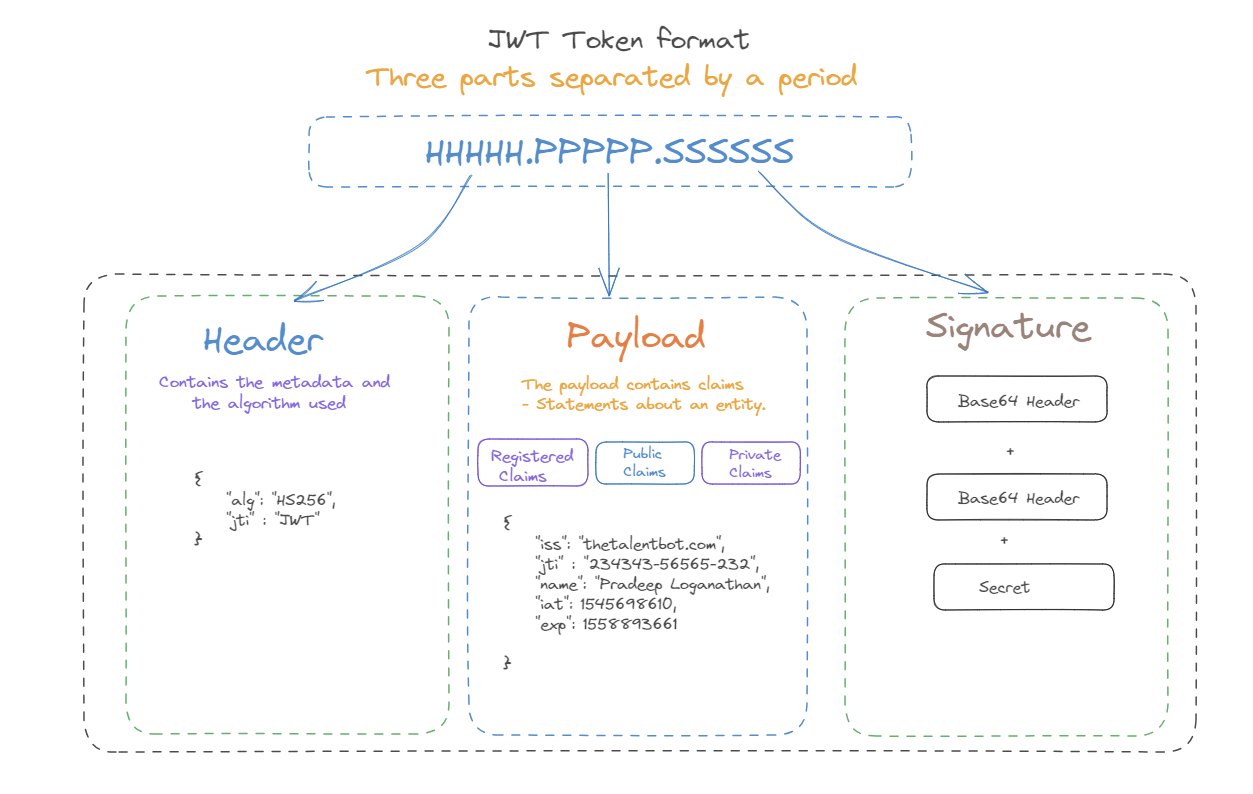
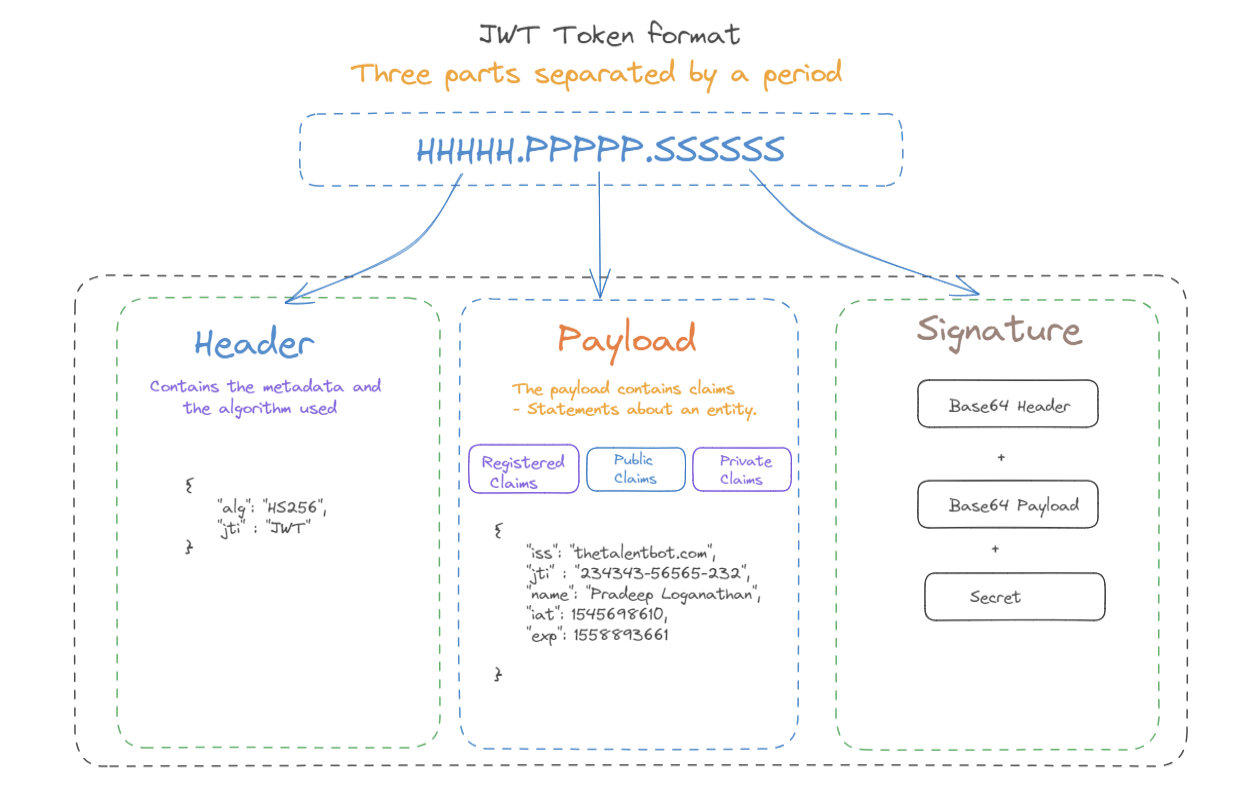
fixed JWT image

diff --git a/content/blog/Kubernetes-health-probes/index.md b/content/blog/Kubernetes-health-probes/index.md
@@ -1,0 +1,164 @@
+---
+title: "Kubernetes Health Probes"
+author: "Pradeep Loganathan"
+date: 2023-10-25T14:33:30+10:00
+
+draft: true
+comments: true
+toc: true
+showToc: true
+TOCOpen: true
+
+description: ""
+
+cover:
+    image: "cover.png"
+    relative: true
+
+images:
+
+
+tags:
+  - "post"
+---
+
+As a container orchestration system it is critical for Kubernetes to know and keep track of the health of its various components. This allows kuberenetes to replace unhealthy pods/containers and know which ones to route traffic to. This is critical to implement high availability and resiliency. Kubernetes probes are used to monitor the health of kubernetes applications, containers or pods running in a cluster. These diagnostic tests are performed periodically by the kubelet. These probes are a critical part of the platform and are used by the Kubernetes control plane to detect changes in the application and take the appropriate corrective action. 
+
+## Probe Types
+
+Kubernetes has three types of container health checks or probes
+
+### Startup probe
+
+A startup probe is used to identify if a container has started. If the startup probe fails the container is killed and the restartPolicy for the container is implemented. Startup probes run before any other probes. When a startup probe is configured the readiness and liveness probes are disabled until it is successful.  It is important to implement the startup probe in conjunction with the liveness and the readiness probes to prevent the possibility of these probes running before the container indicates that it has started up. The startup probe is configured using the ```spec.containers.startupprobe``` attribute of the pod configuration
+
+### Liveness probe
+
+A liveness probe is used to identify if a container is in an healthy state. If a liveness health check fails the kubernetes control plane will kill the container and restart it according to the configured ```restartPolicy```.  This is especially useful in cases where the pod may be running but the application itself may not be functioning properly. The startup probe is configured using the ```spec.containers.livenessprobe``` attribute of the pod configuration
+
+### Readiness probe
+
+A readiness probe is used to identify if a container is ready to recieve traffic. This probe is used to ensure that a container is fully up and running and can serve incoming connection requests. The readiness probe is executed periodically. This may seem redundant given that we have a startup probe. However, a lot of applications may need to perform additional initialization tasks post startup before they are ready to handle any incoming traffic. Some applications may need to initialize data, connect to external services or perform some other functions before they are ready to handle incoming traffic. For example, an API may need to connect to an external database system before it can handle incoming requests. If it is unable to connect to the external database it makes no sense to restart the container as that would not fix the issue. It would also not be ideal to direct any traffic to this container until it is able to establish connection with the external database. The best course of action would be to let the container run and give it some time to establish connections with its external dependencie. The readiness probe is used to provide this functionality of letting the container run and perform successfull initialization before handling any requests.
+
+## Health probe mechanisms
+
+Health probes can be implemented in a container using the below mechanisms 
+
+- Container Execution checks : This can be used to run a command or a script to check the container.  A probe can execute a command inside the container and check the returned status. The container is restarted when a the command returns a failed status code. 
+
+- TCP Socket checks : This can be used to determine if a socket connection can be succesfully established. This is done by establishing a TCP socket connection to a container on the port specified in the configuration. 
+
+- HTTP checks : This can be used to verify if HTTP get requests succeed. If the container exposes an HTTP endpoint this probe can be used to perform a HTTP get request against this endpoint. If the get request fails appropriate actions can be taken.
+
+- gRPC checks : This can be used to verify if gRPC requests succeed. This health check is natively available starting from Kubernetes version 1.25.
+
+
+## Health probe parameters
+
+The above health probe mechanisms provide parameters which allows us to define the probes success criteria and the frequency at which the probes are run. These parameters are
+
+- ```initialDelaySeconds``` : Defines the delay in seconds from the time the container starts to the first time the probe is executed. The default value is zero seconds.
+
+- ```periodSeconds``` : Defines the frequency in seconds at which the probe will be executed after the initial delay. The default value is 10 seconds.
+
+- ```timeoutSeconds``` : Defines the wait time in seconds before a probe is marked as failed. The default value is one second.
+
+- ```failureThreshold``` : Defines the number of times a probe should be retried after a failure. The container will be restarted after this threshold is reached. The default value us three.
+
+# Defining a liveness probe
+
+## execAction handler
+
+```apiVersion: v1
+apiVersion: v1
+kind: Pod
+metadata:
+  labels:
+    test: liveness
+  name: liveness-exec
+spec:
+  containers:
+  - name: liveness
+    image: registry.k8s.io/liveness:0.1
+    ports:
+    - containerPort: 8080
+    livenessProbe:
+      exec:
+        command:
+        - cat
+        - /usr/share/liveness/html/index.html
+      initialDelaySeconds: 5
+      periodSeconds: 5
+```
+
+##  TCPSocketAction handler
+
+```
+apiVersion: v1
+kind: Pod
+metadata:
+  name: liveness
+  labels:
+    app: liveness-tcp
+spec:
+  containers:
+  - name: liveness
+    image: registry.k8s.io/liveness:0.1
+    ports:
+    - containerPort: 8080
+    livenessProbe:
+      tcpSocket:
+        port: 8080
+      initialDelaySeconds: 5
+      periodSeconds: 5
+```
+
+## HTTPGetAction handler
+
+```
+apiVersion: v1
+kind: Pod
+metadata:
+  labels:
+    test: liveness
+  name: liveness-http
+spec:
+  containers:
+  - name: liveness
+    image: registry.k8s.io/liveness:0.1
+    livenessProbe:
+      httpGet:
+        path: /health
+        port: 8080
+        httpHeaders:
+        - name: Custom-Header
+          value: ItsAlive
+      initialDelaySeconds: 5
+      periodSeconds: 5
+```
+
+## gRPC handler
+
+```
+apiVersion: v1
+kind: Pod
+metadata:
+  labels:
+    test: liveness
+  name: liveness-gRPC
+spec:
+  containers:
+  - name: liveness
+    image: registry.k8s.io/liveness:0.1
+    ports:
+    - containerPort: 2379
+    livenessProbe:
+      grpc:
+        port: 2379
+      initialDelaySeconds: 5
+      periodSeconds: 5
+```
+
+# Defining a startup probe
+
+#
